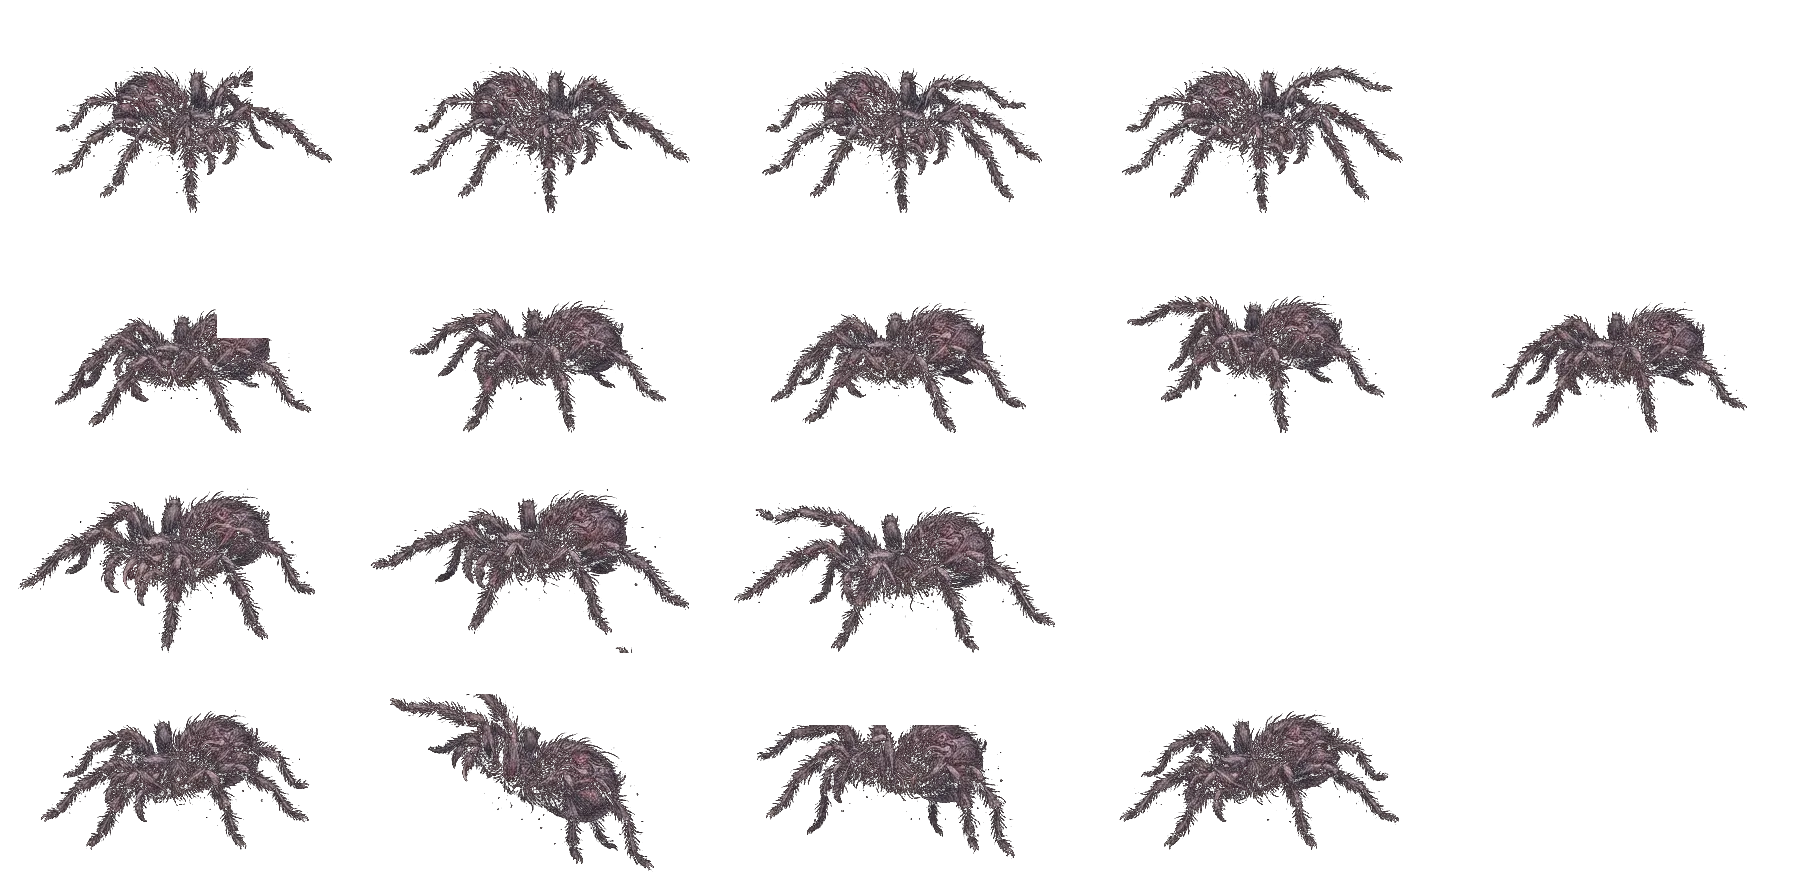
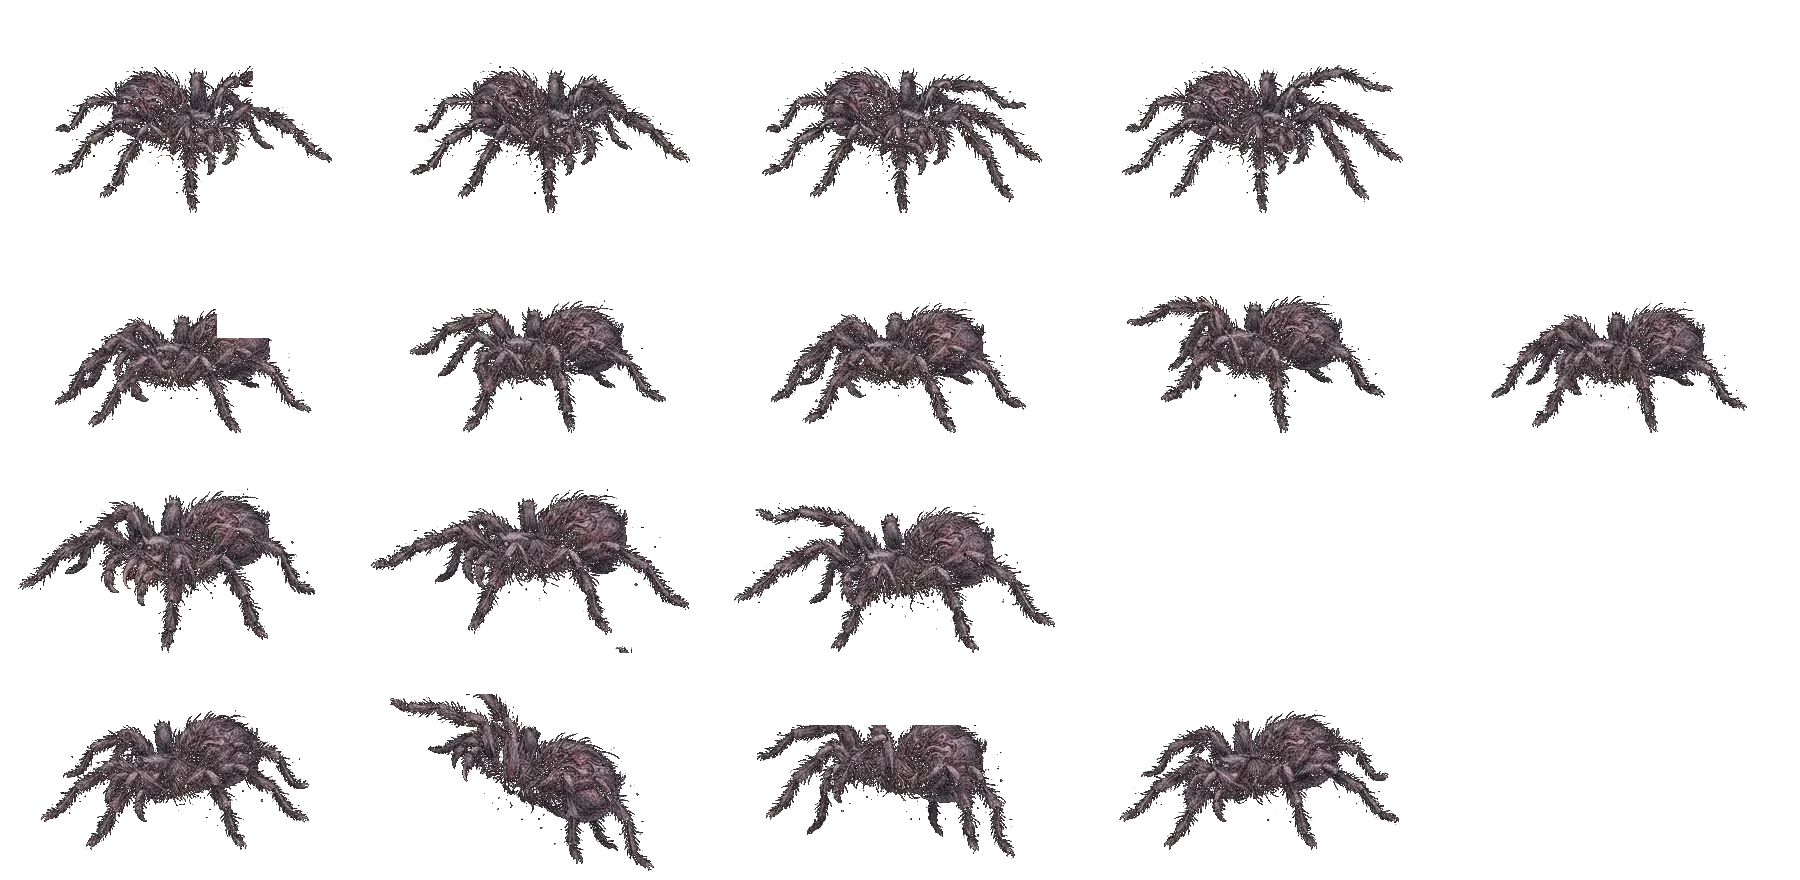
Firmer spider boss sprite; Spider Lair exit by the south wall
- spider_dark (Broodmother and Webmother only) had soft, partly
  see-through pixels through the whole body; its opacity is boosted so
  the bosses read as solid. The original is kept in art/hq.
- The Spider Lair's exit door emote now sits at the bottom edge of the
  room instead of on the path. Smoke test checks it's reachable.

Claude-Session: https://claude.ai/code/session_016iBLHYMLHjCgJ7syNGEacS

diff --git a/src/game/26-oak-hollow.js b/src/game/26-oak-hollow.js
@@ -53,7 +53,7 @@ function setupDun(){DUNINT.length=0;const r=DUN.room,D=(x,y,reach,fn)=>DUNINT.pu
   if(r===9){D(300,660,72,()=>goScene(()=>{enterThorn();lum.x=WEBWELL_DOOR.x-75;lum.y=WEBWELL_DOOR.y+58;lum.face=1;cam.x=lum.x;cam.y=lum.y-50;resetJakFollow();}));
     D(860,445,70,()=>dunGo(10,260,660,1));
     DUNINT.push({x:792,y:540,reach:110,fire:true,onInteract:fireInteract});}
-  if(r===10){D(210,640,70,()=>dunGo(9,860,470,1));}
+  if(r===10){D(290,752,72,()=>dunGo(9,860,470,1));}
   if(r===8){D(780,752,64,()=>dunGo(7,1040,560,-1));
     DUNINT.push({x:HOOD.x,y:HOOD.y,reach:80,grab:()=>hoodOut()&&!C1.foxHood,onInteract:()=>{if(!hoodOut()||C1.foxHood){say(DEN_LINES[(sayCount++)%2]);return;}C1.foxHood=1;giveItem('foxhood');}});
     L(780,552,90,DEN_LINES);}
